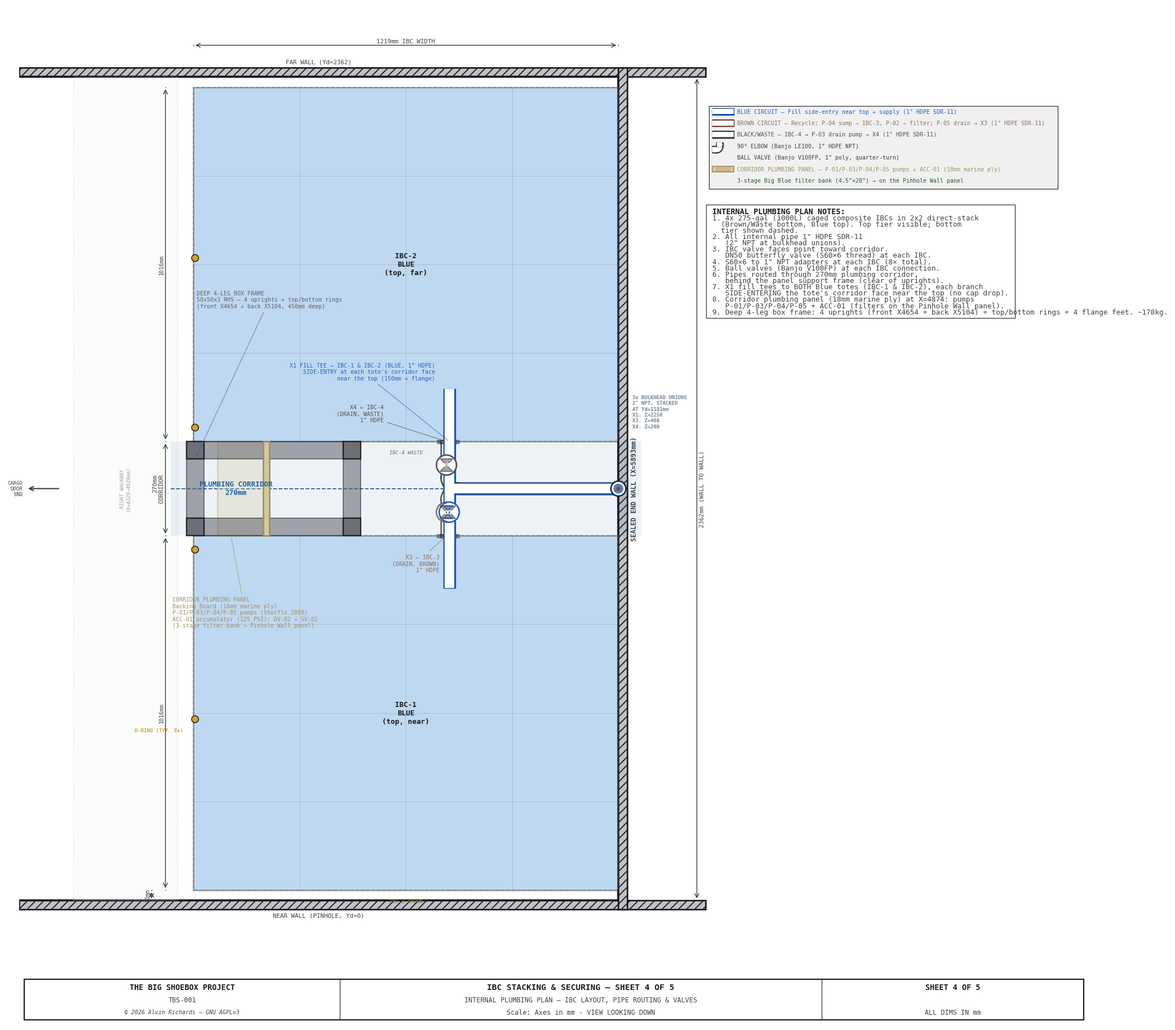
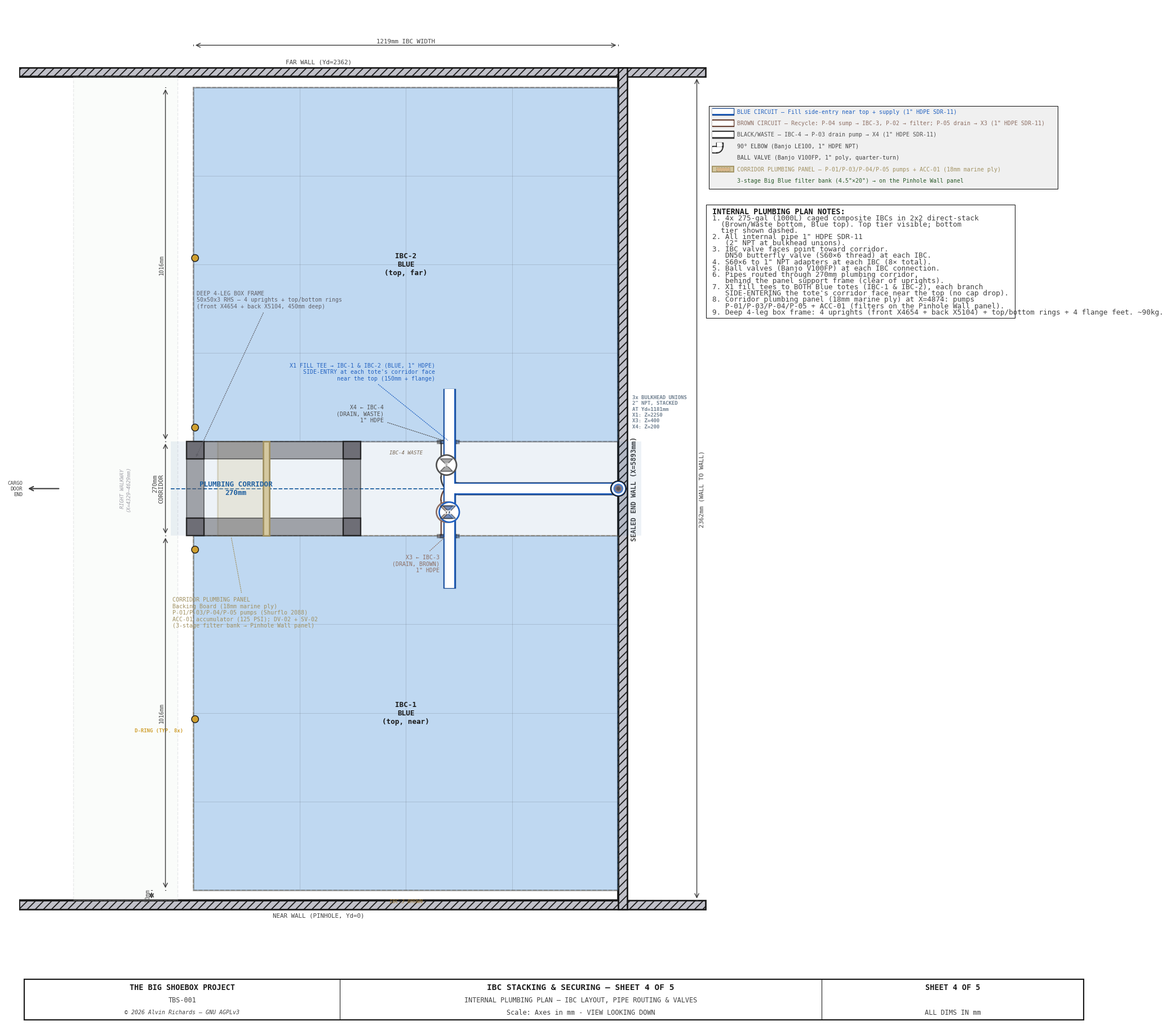
weight: recompute the IBC frame as the deep 4-leg box (~178 -> ~90 kg) + CG cascade
The weight model still described + computed the retired 8-upright load-bearing rack
(8 uprights + ties + 8 feet + a separate panel-mount frame ~178 kg). The actual frame
is cp.frame()'s deep 4-leg box: 4 uprights + 2 rings + 4 feet + front bars + hangers +
plates = ~90 kg. ibc-stacking §3.2 literally said '~178 kg (4 uprights + rings + feet)'
— member list right, number ~2x too heavy.

- _ibc_stacking_frame_weight(): rebuilt from the deep-box takeoff (rings not ties, 4 legs
  not 8, no phantom panel-mount uprights) -> 90.1 kg; docstring + calc_note rewritten.
- Component bounding box fixed: X 4674-5893 (whole footprint) -> 4654-5104, Yd -> the
  corridor box 1046-1316, so the frame CG sits at the corridor mouth, not mid-footprint.
- CG cascade (auto via weight: inject): dry 3,332->3,244, loaded 5,132->5,044, equipment
  554->466, loaded CG X 3,673->3,637 (Z 1,345). §4.4 tip table recomputed by hand
  (5,044/1,345/41.3 deg; max-fill 5,144/1,362/40.9 deg); §3.4 mass/CG citation updated.
- Frame-weight literals: weight-report row 82, ibc-stacking §3.2, equipment-layout,
  ibc-frame note 10, ibc-stacking FRAME_WEIGHT -> ~90 kg.

weight --check-blocks + lint + check_consistency all green.

diff --git a/src/generators/generate_weight_analysis.py b/src/generators/generate_weight_analysis.py
@@ -350,33 +350,39 @@ def _swing_hardware_weight():
 
 
 def _ibc_stacking_frame_weight():
-    """Steel 50×50×3mm RHS RESTRAINT-ONLY frame for the direct-stacked 2×2 IBC
-    stack (ibc-reconfig-v2).
+    """Steel RESTRAINT-ONLY frame for the direct-stacked 2×2 IBC stack
+    (ibc-reconfig-v2) — a DEEP 4-LEG BOX (matches cp.frame() + cp.tote_restraint()).
 
     The 1000L caged totes stack cage-on-cage (no room for a load-bearing deck —
-    ~52mm headroom), so the frame only RESTRAINS:
-      • full-height corridor uprights (6) + 2 front-bay uprights, ~2.30m, 50×50×3 RHS
-      • longitudinal ties (2 lines × 2 levels) along X
-      • front retaining bars (4: 2 columns × 2 heights) + short frame ties
-      • 8 floor flange feet, 150×150×12mm + ~40 M12 anchors
+    ~52mm headroom), so the frame only RESTRAINS. It is a deep 4-leg box at the
+    corridor mouth:
+      • 4 full-height uprights — a FRONT pair (X4654) + a BACK pair 450mm behind
+        (X5104), ~2.30m, 50×50×3 RHS
+      • top + bottom rings (butt-jointed Yd-rails + X-rails tying the 4 legs)
+      • 4 floor flange feet, 150×150×12mm + 16 M12 anchors (front feet under the tray)
+      • 6 rear-panel mount brackets on the back uprights
+      • front retaining bars (4: 2 columns × 2 tiers, 50×20×3 RHS) trap the totes
       • 4 Simpson-style wall joist hangers (carry the front-bar wall ends),
         through-bolted to 4 exterior backing plates (100×135×8mm) + 16 M12 bolts
-      • forward panel-mount frame (2 uprights + top rail + floor beam) — this frame
-        also carries the right walkway (replaces the old IBC-upright cantilever)
-    Total ≈ 175 kg.
+    Total ≈ 90 kg (was ~178 kg for the retired 8-upright load-bearing rack).
     """
-    rhs = 4.25                                    # 50×50×3 RHS, kg/m
-    up_h = (IBC_H_STK_1000 - 40) / 1000.0         # 2.296 m full-height upright
-    uprights_kg = 8 * up_h * rhs                  # 6 corridor + 2 front
-    ties_kg = 4 * 1.28 * rhs                      # 2 lines × 2 levels, ~1.28m
-    front_bars_kg = 4 * 1.1 * rhs + 4 * 0.4 * rhs # 4 bars + short frame ties
-    feet_kg = 8 * (0.150 * 0.150 * 0.012) * RHO_STEEL
-    hangers_kg = 4 * 1.1                          # folded 4mm-plate joist hangers
+    rhs   = 4.25                                   # 50×50×3 RHS, kg/m
+    barhs = 3.07                                   # 50×20×3 RHS front bars, kg/m
+    up_h  = (IBC_H_STK_1000 - 40) / 1000.0         # 2.296 m full-height upright
+    # cp.frame(): the deep 4-leg box
+    uprights_kg = 4 * up_h * rhs                   # front pair + back pair
+    yd_rail, x_rail = 0.170, 0.400                 # ring rails (cp.frame geometry, m)
+    rings_kg = 2 * (2 * yd_rail + 2 * x_rail) * rhs   # bottom + top rings
+    feet_kg = 4 * (0.150 * 0.150 * 0.012) * RHO_STEEL
+    brackets_kg = 6 * 0.30                         # rear-panel mount brackets
+    # cp.tote_restraint(): front bars + wall hangers + exterior plates
+    front_bars_kg = 4 * 1.096 * barhs
+    hangers_kg = 4 * 1.1                           # folded 4mm-plate joist hangers
     ext_plates_kg = 4 * (0.100 * 0.135 * 0.008) * RHO_STEEL  # exterior wall backing plates
-    anchors_kg = (40 + 16) * 0.10                 # floor anchors + 16 M12 wall through-bolts
-    panel_frame_kg = (2 * 2.30 + 0.27 + 0.27) * rhs
-    return (uprights_kg + ties_kg + front_bars_kg + feet_kg
-            + hangers_kg + ext_plates_kg + anchors_kg + panel_frame_kg)
+    anchors_kg = (16 + 16) * 0.10                  # 16 floor + 16 wall M12
+    steel = (uprights_kg + rings_kg + feet_kg + brackets_kg
+             + front_bars_kg + hangers_kg + ext_plates_kg + anchors_kg)
+    return steel * 1.08                            # +8% weld metal / gussets / primer
 
 
 # ═══════════════════════════════════════════════════════════════════════════
@@ -566,11 +572,12 @@ def build_components():
                   calc_note="1000L caged composite tare (bottom tier)"),
         Component("IBC restraint frame", "equipment",
                   _ibc_stacking_frame_weight(),
-                  IBC_COL_X, IBC_COL_X + IBC_W,
-                  BLUE_IBC_Y, IBC_FAR_Y + IBC_D,
+                  IBC_COL_X - 20, IBC_COL_X - 20 + 450,   # 4654–5104: deep-box front↔back (cp.frame)
+                  BLUE_IBC_Y + IBC_D, IBC_FAR_Y,          # 1046–1316: the plumbing-corridor box
                   0, IBC_H_STK_1000 - 40, color=C_STEEL,
-                  calc_note="50×50×3mm RHS restraint frame: uprights + ties + "
-                            "feet + front bars + wall hangers + panel frame"),
+                  calc_note="50×50×3mm RHS restraint deep 4-leg box: 4 uprights "
+                            "(front + back pair) + top/bottom rings + 4 feet + front "
+                            "bars + wall hangers + exterior backing plates"),
 
         # ── Liquids — Camera Ready state (water in top-tier Blue IBCs) ───
         # Blue holds 1800L TOTAL across the two top totes (~900L each). Water

diff --git a/src/generators/generate_ibc_frame_drawing.py b/src/generators/generate_ibc_frame_drawing.py
@@ -570,7 +570,7 @@ def sheet1():
         f"   v2 layout: Brown/Waste bottom, Blue on top.",
         f"8. Cage top rail ({IBC_CAGE_TUBE_D}mm Ø tube) is the highest point; lashing straps bear on it.",
         f"9. IBC valve face (DN50, S60×6) points toward the corridor. Valve CL at Z={IBC_VALVE_Z}mm above each tote base.",
-        f"10. Total frame weight: ~178 kg (incl. feet + front bars + hangers + exterior wall plates + panel-mount).",
+        f"10. Total frame weight: ~90 kg (incl. 4 feet + rings + front bars + hangers + exterior wall plates + rear-panel brackets).",
     ]
     draw_notes(ax, notes, (2500), (TOP_Z + 600), spacing=(23),
                fs=7, font=FONT, width=(1800))

diff --git a/src/generators/generate_ibc_stacking_diagram.py b/src/generators/generate_ibc_stacking_diagram.py
@@ -79,7 +79,7 @@ FRAME_PLATFORM_H  = 1060  # platform height (1010 + 50mm clearance plate)
 FRAME_PLATFORM_T  = FRAME_RHS  # platform beam depth = RHS size
 FRAME_LIP_H    = 40     # anti-rotation lip height above platform
 FRAME_LIP_T    = 5      # lip thickness (steel plate)
-FRAME_WEIGHT   = 178    # kg (restraint deep 4-leg box: uprights + rings + feet + front bars + hangers + exterior wall plates)
+FRAME_WEIGHT   = 90     # kg (restraint deep 4-leg box: 4 uprights + rings + 4 feet + front bars + hangers + exterior wall plates); see weight-distribution-report §3.3
 
 # D-ring lashing
 DRING_SIZE     = 25     # D-ring strap width (mm)

diff --git a/weight-distribution-report.md b/weight-distribution-report.md
@@ -79,17 +79,17 @@ UV-HDPE 950 kg/m³, water 1,000 kg/m³.
 | Blue IBC-2 (tote) | 65 | 4,674–5,893 | 1,316–2,332 | 1,000L caged composite tare (top tier, far) |
 | Brown IBC-3 (tote) | 65 | 4,674–5,893 | 30–1,046 | 1,000L caged composite tare (bottom tier, near) |
 | Waste IBC-4 (tote) | 65 | 4,674–5,893 | 1,316–2,332 | 1,000L caged composite tare (bottom tier, far) |
-| IBC restraint frame | 178 | 4,674–5,893 | 0–2,362 | 50×50×3mm RHS restraint-only frame (totes direct-stack cage-on-cage): full-height corridor + front-bay uprights + longitudinal ties + front retaining bars + 8 floor flange feet + 4 wall joist hangers (through-bolted to 4 exterior backing plates) + forward panel-mount frame ([Equipment Layout](equipment-layout-report.md) §5) |
-| **Equipment subtotal** | **<!-- BEGIN weight:wt-cat-equipment -->554<!-- END weight:wt-cat-equipment -->** | | | |
+| IBC restraint frame | 90 | 4,654–5,104 | 1,046–1,316 | 50×50×3mm RHS restraint-only deep 4-leg box (totes direct-stack cage-on-cage): 4 full-height uprights (front pair X4654 + back pair X5104) + top/bottom rings + 4 floor flange feet + front retaining bars + 4 wall joist hangers (through-bolted to 4 exterior backing plates) + rear-panel brackets ([Equipment Layout](equipment-layout-report.md) §5) |
+| **Equipment subtotal** | **<!-- BEGIN weight:wt-cat-equipment -->466<!-- END weight:wt-cat-equipment -->** | | | |
 
 ### 3.4 Dry Weight Summary
 
 | Category | Weight (kg) | % of Dry Total |
 |----------|------------|---------------|
-| Container (shell + doors) | <!-- BEGIN weight:wt-cat-container -->2,200<!-- END weight:wt-cat-container --> | <!-- BEGIN weight:wt-pct-container -->66.0<!-- END weight:wt-pct-container -->% |
-| Structure | <!-- BEGIN weight:wt-cat-structure -->578<!-- END weight:wt-cat-structure --> | <!-- BEGIN weight:wt-pct-structure -->17.3<!-- END weight:wt-pct-structure -->% |
-| Equipment | <!-- BEGIN weight:wt-cat-equipment -->554<!-- END weight:wt-cat-equipment --> | <!-- BEGIN weight:wt-pct-equipment -->16.6<!-- END weight:wt-pct-equipment -->% |
-| **Total dry** | **<!-- BEGIN weight:wt-total-dry -->3,332<!-- END weight:wt-total-dry -->** | **100%** |
+| Container (shell + doors) | <!-- BEGIN weight:wt-cat-container -->2,200<!-- END weight:wt-cat-container --> | <!-- BEGIN weight:wt-pct-container -->67.8<!-- END weight:wt-pct-container -->% |
+| Structure | <!-- BEGIN weight:wt-cat-structure -->578<!-- END weight:wt-cat-structure --> | <!-- BEGIN weight:wt-pct-structure -->17.8<!-- END weight:wt-pct-structure -->% |
+| Equipment | <!-- BEGIN weight:wt-cat-equipment -->466<!-- END weight:wt-cat-equipment --> | <!-- BEGIN weight:wt-pct-equipment -->14.4<!-- END weight:wt-pct-equipment -->% |
+| **Total dry** | **<!-- BEGIN weight:wt-total-dry -->3,244<!-- END weight:wt-total-dry -->** | **100%** |
 
 **Grating weight assumption:** 5/8" (15mm) molded GRP (fiberglass) grating,
 vinyl-ester resin with grit top, weighs approximately 11 kg/m² over the 4.14 m²
@@ -115,7 +115,7 @@ during processing, not pre-loaded).
 | Blue IBC-2 water | 900 | 900 | X=4,674–5,893, Yd=1,316–2,332 | Top (Z=1,336–2,236) |
 | **Total liquid** | **1,800** | **1,800** | | |
 
-**Total loaded weight: <!-- BEGIN weight:wt-total-loaded -->5,132<!-- END weight:wt-total-loaded --> kg** (<!-- BEGIN weight:wt-total-dry -->3,332<!-- END weight:wt-total-dry --> dry + 1,800 liquid)
+**Total loaded weight: <!-- BEGIN weight:wt-total-loaded -->5,044<!-- END weight:wt-total-loaded --> kg** (<!-- BEGIN weight:wt-total-dry -->3,244<!-- END weight:wt-total-dry --> dry + 1,800 liquid)
 
 ### 4.2 Materials Exhausted (Ready for Resupply)
 
@@ -132,26 +132,26 @@ unrecovered residual — see [water-system report §4](water-system-report.md)).
 | Processing tray | — | 0 | Drained | — |
 | **Total liquid** | **1,260** | **1,260** | | |
 
-**Total exhausted weight: <!-- BEGIN weight:wt-total-exhausted -->4,592<!-- END weight:wt-total-exhausted --> kg** (<!-- BEGIN weight:wt-total-dry -->3,332<!-- END weight:wt-total-dry --> dry + 1,260 liquid)
+**Total exhausted weight: <!-- BEGIN weight:wt-total-exhausted -->4,504<!-- END weight:wt-total-exhausted --> kg** (<!-- BEGIN weight:wt-total-dry -->3,244<!-- END weight:wt-total-dry --> dry + 1,260 liquid)
 
 ### 4.3 State Comparison
 
 | State | Total (kg) | X_cg (mm) | Yd_cg (mm) | Z_cg (mm) | Front/Rear | Near/Far |
 |-------|-----------|-----------|------------|-----------|------------|----------|
-| Dry (Transport) | <!-- BEGIN weight:wt-dry-total -->3,332<!-- END weight:wt-dry-total --> | <!-- BEGIN weight:wt-dry-x -->2,802<!-- END weight:wt-dry-x --> | <!-- BEGIN weight:wt-dry-yd -->1,193<!-- END weight:wt-dry-yd --> | <!-- BEGIN weight:wt-dry-z -->1,102<!-- END weight:wt-dry-z --> | <!-- BEGIN weight:wt-dry-fr -->52.6<!-- END weight:wt-dry-fr -->/<!-- BEGIN weight:wt-dry-rr -->47.4<!-- END weight:wt-dry-rr -->% | <!-- BEGIN weight:wt-dry-nr -->48.5<!-- END weight:wt-dry-nr -->/<!-- BEGIN weight:wt-dry-fa -->51.5<!-- END weight:wt-dry-fa -->% |
-| Loaded Transport (Blue full) | <!-- BEGIN weight:wt-loadedtx-total -->5,132<!-- END weight:wt-loadedtx-total --> | <!-- BEGIN weight:wt-loadedtx-x -->3,673<!-- END weight:wt-loadedtx-x --> | <!-- BEGIN weight:wt-loadedtx-yd -->1,189<!-- END weight:wt-loadedtx-yd --> | <!-- BEGIN weight:wt-loadedtx-z -->1,342<!-- END weight:wt-loadedtx-z --> | <!-- BEGIN weight:wt-loadedtx-fr -->34.2<!-- END weight:wt-loadedtx-fr -->/<!-- BEGIN weight:wt-loadedtx-rr -->65.8<!-- END weight:wt-loadedtx-rr -->% | <!-- BEGIN weight:wt-loadedtx-nr -->49.1<!-- END weight:wt-loadedtx-nr -->/<!-- BEGIN weight:wt-loadedtx-fa -->50.9<!-- END weight:wt-loadedtx-fa -->% |
-| Camera Ready (Deployed) | <!-- BEGIN weight:wt-ready-total -->5,132<!-- END weight:wt-ready-total --> | <!-- BEGIN weight:wt-ready-x -->3,670<!-- END weight:wt-ready-x --> | <!-- BEGIN weight:wt-ready-yd -->1,174<!-- END weight:wt-ready-yd --> | <!-- BEGIN weight:wt-ready-z -->1,341<!-- END weight:wt-ready-z --> | <!-- BEGIN weight:wt-ready-fr -->34.2<!-- END weight:wt-ready-fr -->/<!-- BEGIN weight:wt-ready-rr -->65.8<!-- END weight:wt-ready-rr -->% | <!-- BEGIN weight:wt-ready-nr -->50.3<!-- END weight:wt-ready-nr -->/<!-- BEGIN weight:wt-ready-fa -->49.7<!-- END weight:wt-ready-fa -->% |
-| Materials Exhausted (Transport) | <!-- BEGIN weight:wt-exhausted-total -->4,592<!-- END weight:wt-exhausted-total --> | <!-- BEGIN weight:wt-exhausted-x -->3,483<!-- END weight:wt-exhausted-x --> | <!-- BEGIN weight:wt-exhausted-yd -->1,190<!-- END weight:wt-exhausted-yd --> | <!-- BEGIN weight:wt-exhausted-z -->932<!-- END weight:wt-exhausted-z --> | <!-- BEGIN weight:wt-exhausted-fr -->38.2<!-- END weight:wt-exhausted-fr -->/<!-- BEGIN weight:wt-exhausted-rr -->61.8<!-- END weight:wt-exhausted-rr -->% | <!-- BEGIN weight:wt-exhausted-nr -->48.9<!-- END weight:wt-exhausted-nr -->/<!-- BEGIN weight:wt-exhausted-fa -->51.1<!-- END weight:wt-exhausted-fa -->% |
+| Dry (Transport) | <!-- BEGIN weight:wt-dry-total -->3,244<!-- END weight:wt-dry-total --> | <!-- BEGIN weight:wt-dry-x -->2,724<!-- END weight:wt-dry-x --> | <!-- BEGIN weight:wt-dry-yd -->1,193<!-- END weight:wt-dry-yd --> | <!-- BEGIN weight:wt-dry-z -->1,100<!-- END weight:wt-dry-z --> | <!-- BEGIN weight:wt-dry-fr -->54.0<!-- END weight:wt-dry-fr -->/<!-- BEGIN weight:wt-dry-rr -->46.0<!-- END weight:wt-dry-rr -->% | <!-- BEGIN weight:wt-dry-nr -->48.5<!-- END weight:wt-dry-nr -->/<!-- BEGIN weight:wt-dry-fa -->51.5<!-- END weight:wt-dry-fa -->% |
+| Loaded Transport (Blue full) | <!-- BEGIN weight:wt-loadedtx-total -->5,044<!-- END weight:wt-loadedtx-total --> | <!-- BEGIN weight:wt-loadedtx-x -->3,637<!-- END weight:wt-loadedtx-x --> | <!-- BEGIN weight:wt-loadedtx-yd -->1,189<!-- END weight:wt-loadedtx-yd --> | <!-- BEGIN weight:wt-loadedtx-z -->1,345<!-- END weight:wt-loadedtx-z --> | <!-- BEGIN weight:wt-loadedtx-fr -->34.8<!-- END weight:wt-loadedtx-fr -->/<!-- BEGIN weight:wt-loadedtx-rr -->65.2<!-- END weight:wt-loadedtx-rr -->% | <!-- BEGIN weight:wt-loadedtx-nr -->49.0<!-- END weight:wt-loadedtx-nr -->/<!-- BEGIN weight:wt-loadedtx-fa -->51.0<!-- END weight:wt-loadedtx-fa -->% |
+| Camera Ready (Deployed) | <!-- BEGIN weight:wt-ready-total -->5,044<!-- END weight:wt-ready-total --> | <!-- BEGIN weight:wt-ready-x -->3,635<!-- END weight:wt-ready-x --> | <!-- BEGIN weight:wt-ready-yd -->1,173<!-- END weight:wt-ready-yd --> | <!-- BEGIN weight:wt-ready-z -->1,345<!-- END weight:wt-ready-z --> | <!-- BEGIN weight:wt-ready-fr -->34.8<!-- END weight:wt-ready-fr -->/<!-- BEGIN weight:wt-ready-rr -->65.2<!-- END weight:wt-ready-rr -->% | <!-- BEGIN weight:wt-ready-nr -->50.3<!-- END weight:wt-ready-nr -->/<!-- BEGIN weight:wt-ready-fa -->49.7<!-- END weight:wt-ready-fa -->% |
+| Materials Exhausted (Transport) | <!-- BEGIN weight:wt-exhausted-total -->4,504<!-- END weight:wt-exhausted-total --> | <!-- BEGIN weight:wt-exhausted-x -->3,440<!-- END weight:wt-exhausted-x --> | <!-- BEGIN weight:wt-exhausted-yd -->1,190<!-- END weight:wt-exhausted-yd --> | <!-- BEGIN weight:wt-exhausted-z -->928<!-- END weight:wt-exhausted-z --> | <!-- BEGIN weight:wt-exhausted-fr -->38.9<!-- END weight:wt-exhausted-fr -->/<!-- BEGIN weight:wt-exhausted-rr -->61.1<!-- END weight:wt-exhausted-rr -->% | <!-- BEGIN weight:wt-exhausted-nr -->48.9<!-- END weight:wt-exhausted-nr -->/<!-- BEGIN weight:wt-exhausted-fa -->51.1<!-- END weight:wt-exhausted-fa -->% |
 
 **Loaded Transport** is the camera-ready water load (full top-tier Blue IBCs,
 1,800 kg) carried in the *transport* configuration — panel swung in, cargo doors
-closed. The water sits in the **top** tier, so its vertical CG is **Z=<!-- BEGIN weight:wt-loadedtx-z -->1,342<!-- END weight:wt-loadedtx-z -->mm —
-<!-- BEGIN weight:wt-mig-dz -->410<!-- END weight:wt-mig-dz -->mm higher** than the exhausted state (<!-- BEGIN weight:wt-exhausted-z -->932<!-- END weight:wt-exhausted-z -->mm), making it the **highest-CG
+closed. The water sits in the **top** tier, so its vertical CG is **Z=<!-- BEGIN weight:wt-loadedtx-z -->1,345<!-- END weight:wt-loadedtx-z -->mm —
+<!-- BEGIN weight:wt-mig-dz -->417<!-- END weight:wt-mig-dz -->mm higher** than the exhausted state (<!-- BEGIN weight:wt-exhausted-z -->928<!-- END weight:wt-exhausted-z -->mm), making it the **highest-CG
 transport case** that governs road-transport stability (tie-down and cornering).
-The exhausted (return) state is both lighter — **<!-- BEGIN weight:wt-total-exhausted -->4,592<!-- END weight:wt-total-exhausted --> kg**, since ~<!-- BEGIN fact:lost_l -->434<!-- END fact:lost_l --> kg of the
+The exhausted (return) state is both lighter — **<!-- BEGIN weight:wt-total-exhausted -->4,504<!-- END weight:wt-total-exhausted --> kg**, since ~<!-- BEGIN fact:lost_l -->434<!-- END fact:lost_l --> kg of the
 processed water is lost to the open process rather than recovered — and lower-CG,
 so it is never the governing case. Even at the loaded worst case the static sideways
-tip threshold is **~41°** (½-width 1,181mm ÷ Z_cg <!-- BEGIN weight:wt-loadedtx-z -->1,342<!-- END weight:wt-loadedtx-z -->mm), so the deliberate
+tip threshold is **~41°** (½-width 1,181mm ÷ Z_cg <!-- BEGIN weight:wt-loadedtx-z -->1,345<!-- END weight:wt-loadedtx-z -->mm), so the deliberate
 Blue-on-top layout stays comfortably stable.
 
 ### 4.4 Optional Max-Blue-Fill Transport Case
@@ -163,11 +163,11 @@ that heavier load stays well within transport limits:
 
 | Loaded Transport | Gross mass | Z_cg | Static tip threshold |
 |------------------|-----------:|-----:|---------------------:|
-| Standard Blue fill (1,800L) | 5,130 kg | 1,340mm | 41.4° |
-| **Max Blue fill (1,900L)** | **5,224 kg** | **1,357mm** | **41.0°** |
+| Standard Blue fill (1,800L) | 5,044 kg | 1,345mm | 41.3° |
+| **Max Blue fill (1,900L)** | **5,144 kg** | **1,362mm** | **40.9°** |
 
 The extra ~100 kg sits in the top tier, raising the worst-case vertical CG only 17mm and lowering
-the static sideways tip threshold ~0.4° (to 41.0° — still far above any rollover concern). Gross
+the static sideways tip threshold ~0.4° (to 40.9° — still far above any rollover concern). Gross
 weight stays at ~22% of the [ISO 668](https://www.iso.org/standard/76912.html) 24,000 kg limit. The
 optional max-Blue-fill top-up is therefore transport-validated.
 
@@ -178,7 +178,7 @@ optional max-Blue-fill top-up is therefore transport-validated.
 ### 1 — Summary Comparison
 
 Three-state side-by-side comparison with CG positions and summary table.
-The dry state is nearly balanced; the camera-ready/loaded states shift the CG rearward by ~<!-- BEGIN weight:wt-cg-shift -->870<!-- END weight:wt-cg-shift -->mm (the lighter exhausted return state by ~<!-- BEGIN weight:wt-cg-shift-ex -->680<!-- END weight:wt-cg-shift-ex -->mm).
+The dry state is nearly balanced; the camera-ready/loaded states shift the CG rearward by ~<!-- BEGIN weight:wt-cg-shift -->910<!-- END weight:wt-cg-shift -->mm (the lighter exhausted return state by ~<!-- BEGIN weight:wt-cg-shift-ex -->715<!-- END weight:wt-cg-shift-ex -->mm).
 
 ![TBS-001 — Weight Analysis: Summary Comparison](assets/weight-analysis-sheet1.png)
 
@@ -195,7 +195,7 @@ is the densest zone.
 
 Weight distribution with full Blue IBCs (top tier) and hinged panel
 deployed to its operational position at the cargo door end (X=0–80).
-CG marker shows the loaded center of gravity at X=<!-- BEGIN weight:wt-ready-x -->3,670<!-- END weight:wt-ready-x -->, Yd=<!-- BEGIN weight:wt-ready-yd -->1,174<!-- END weight:wt-ready-yd -->.
+CG marker shows the loaded center of gravity at X=<!-- BEGIN weight:wt-ready-x -->3,635<!-- END weight:wt-ready-x -->, Yd=<!-- BEGIN weight:wt-ready-yd -->1,173<!-- END weight:wt-ready-yd -->.
 Quadrant weights show the rear-heavy bias from the IBC stack.
 
 ![TBS-001 — Weight Analysis: Camera Ready](assets/weight-analysis-sheet3.png)
@@ -205,8 +205,8 @@ Quadrant weights show the rear-heavy bias from the IBC stack.
 Water has migrated from top-tier Blue IBCs to bottom-tier Brown/Waste IBCs, and ~<!-- BEGIN fact:lost_l -->434<!-- END fact:lost_l --> kg of it has
 been lost to the open process (evaporation, wet-print carryout, unrecovered residual — see
 [water-system report §4](water-system-report.md)), so only ~<!-- BEGIN fact:recovered_l -->1,260<!-- END fact:recovered_l --> kg is recovered. The hinged panel
-is swung ~56° about the pivot to its transport position. Total mass therefore drops to **<!-- BEGIN weight:wt-total-exhausted -->4,592<!-- END weight:wt-total-exhausted --> kg**
-(~<!-- BEGIN weight:wt-mass-drop -->540<!-- END weight:wt-mass-drop --> kg below the loaded state), and the vertical CG drops by <!-- BEGIN weight:wt-mig-dz -->410<!-- END weight:wt-mig-dz -->mm (Z: <!-- BEGIN weight:wt-loadedtx-z -->1,342<!-- END weight:wt-loadedtx-z --> → <!-- BEGIN weight:wt-exhausted-z -->932<!-- END weight:wt-exhausted-z -->mm) as the
+is swung ~56° about the pivot to its transport position. Total mass therefore drops to **<!-- BEGIN weight:wt-total-exhausted -->4,504<!-- END weight:wt-total-exhausted --> kg**
+(~<!-- BEGIN weight:wt-mass-drop -->540<!-- END weight:wt-mass-drop --> kg below the loaded state), and the vertical CG drops by <!-- BEGIN weight:wt-mig-dz -->417<!-- END weight:wt-mig-dz -->mm (Z: <!-- BEGIN weight:wt-loadedtx-z -->1,345<!-- END weight:wt-loadedtx-z --> → <!-- BEGIN weight:wt-exhausted-z -->928<!-- END weight:wt-exhausted-z -->mm) as the
 remaining water settles in the bottom tier. This is the lightest, lowest-CG transport state — never
 the governing case.
 
@@ -216,8 +216,8 @@ the governing case.
 
 The camera-ready water load (1,800 kg in the top-tier Blue IBCs) carried in
 transport configuration — panel swung in, cargo doors closed. The water is in
-the **top** tier, raising the vertical CG to **Z=<!-- BEGIN weight:wt-loadedtx-z -->1,342<!-- END weight:wt-loadedtx-z -->mm** (+<!-- BEGIN weight:wt-mig-dz -->410<!-- END weight:wt-mig-dz -->mm vs the lighter
-exhausted state at <!-- BEGIN weight:wt-exhausted-z -->932<!-- END weight:wt-exhausted-z -->mm). This is the worst-case transport vertical CG.
+the **top** tier, raising the vertical CG to **Z=<!-- BEGIN weight:wt-loadedtx-z -->1,345<!-- END weight:wt-loadedtx-z -->mm** (+<!-- BEGIN weight:wt-mig-dz -->417<!-- END weight:wt-mig-dz -->mm vs the lighter
+exhausted state at <!-- BEGIN weight:wt-exhausted-z -->928<!-- END weight:wt-exhausted-z -->mm). This is the worst-case transport vertical CG.
 
 ![TBS-001 — Weight Analysis: Loaded Transport](assets/weight-analysis-sheet5.png)
 
@@ -231,10 +231,10 @@ All four states are well within the ISO 24,000 kg maximum gross weight:
 
 | State | Total (kg) | Margin (kg) | Utilization |
 |-------|-----------|------------|-------------|
-| Dry | <!-- BEGIN weight:wt-dry-total -->3,332<!-- END weight:wt-dry-total --> | <!-- BEGIN weight:wt-iso-dry-margin -->20,668<!-- END weight:wt-iso-dry-margin --> | <!-- BEGIN weight:wt-iso-dry-util -->13.9<!-- END weight:wt-iso-dry-util -->% |
-| Camera Ready | <!-- BEGIN weight:wt-ready-total -->5,132<!-- END weight:wt-ready-total --> | <!-- BEGIN weight:wt-iso-ready-margin -->18,868<!-- END weight:wt-iso-ready-margin --> | <!-- BEGIN weight:wt-iso-ready-util -->21.4<!-- END weight:wt-iso-ready-util -->% |
-| Materials Exhausted | <!-- BEGIN weight:wt-exhausted-total -->4,592<!-- END weight:wt-exhausted-total --> | <!-- BEGIN weight:wt-iso-exhausted-margin -->19,408<!-- END weight:wt-iso-exhausted-margin --> | <!-- BEGIN weight:wt-iso-exhausted-util -->19.1<!-- END weight:wt-iso-exhausted-util -->% |
-| Loaded Transport | <!-- BEGIN weight:wt-loadedtx-total -->5,132<!-- END weight:wt-loadedtx-total --> | <!-- BEGIN weight:wt-iso-loadedtx-margin -->18,868<!-- END weight:wt-iso-loadedtx-margin --> | <!-- BEGIN weight:wt-iso-loadedtx-util -->21.4<!-- END weight:wt-iso-loadedtx-util -->% |
+| Dry | <!-- BEGIN weight:wt-dry-total -->3,244<!-- END weight:wt-dry-total --> | <!-- BEGIN weight:wt-iso-dry-margin -->20,756<!-- END weight:wt-iso-dry-margin --> | <!-- BEGIN weight:wt-iso-dry-util -->13.5<!-- END weight:wt-iso-dry-util -->% |
+| Camera Ready | <!-- BEGIN weight:wt-ready-total -->5,044<!-- END weight:wt-ready-total --> | <!-- BEGIN weight:wt-iso-ready-margin -->18,956<!-- END weight:wt-iso-ready-margin --> | <!-- BEGIN weight:wt-iso-ready-util -->21.0<!-- END weight:wt-iso-ready-util -->% |
+| Materials Exhausted | <!-- BEGIN weight:wt-exhausted-total -->4,504<!-- END weight:wt-exhausted-total --> | <!-- BEGIN weight:wt-iso-exhausted-margin -->19,496<!-- END weight:wt-iso-exhausted-margin --> | <!-- BEGIN weight:wt-iso-exhausted-util -->18.8<!-- END weight:wt-iso-exhausted-util -->% |
+| Loaded Transport | <!-- BEGIN weight:wt-loadedtx-total -->5,044<!-- END weight:wt-loadedtx-total --> | <!-- BEGIN weight:wt-iso-loadedtx-margin -->18,956<!-- END weight:wt-iso-loadedtx-margin --> | <!-- BEGIN weight:wt-iso-loadedtx-util -->21.0<!-- END weight:wt-iso-loadedtx-util -->% |
 
 The container operates at about 19–21% of its rated capacity in all states.
 There is no structural concern from a gross weight perspective.
@@ -252,21 +252,21 @@ the far side but is offset by the tilt-swing board on the near side.
 
 ### 6.3 Front-Rear Balance
 
-The dry/transport state has a front-biased split (<!-- BEGIN weight:wt-dry-fr -->52.6<!-- END weight:wt-dry-fr -->/<!-- BEGIN weight:wt-dry-rr -->47.4<!-- END weight:wt-dry-rr -->%), with CG at
-X=<!-- BEGIN weight:wt-dry-x -->2,802<!-- END weight:wt-dry-x -->mm. This front bias comes from the cargo doors (<!-- BEGIN weight:wt-doors-total -->280<!-- END weight:wt-doors-total --> kg total) being
+The dry/transport state has a front-biased split (<!-- BEGIN weight:wt-dry-fr -->54.0<!-- END weight:wt-dry-fr -->/<!-- BEGIN weight:wt-dry-rr -->46.0<!-- END weight:wt-dry-rr -->%), with CG at
+X=<!-- BEGIN weight:wt-dry-x -->2,724<!-- END weight:wt-dry-x -->mm. This front bias comes from the cargo doors (<!-- BEGIN weight:wt-doors-total -->280<!-- END weight:wt-doors-total --> kg total) being
 in their closed position at X≈−70mm, pulling the CG toward the cargo door
 end. The hinged panel is also swung ~56° about the pivot, keeping its mass
 in the front (door-end) half.
 
 When liquids are added and the panel and doors are deployed (camera ready),
-the CG shifts rearward to X=<!-- BEGIN weight:wt-ready-x -->3,670<!-- END weight:wt-ready-x -->mm (~<!-- BEGIN weight:wt-cg-shift -->870<!-- END weight:wt-cg-shift -->mm past the dry CG). The doors
+the CG shifts rearward to X=<!-- BEGIN weight:wt-ready-x -->3,635<!-- END weight:wt-ready-x -->mm (~<!-- BEGIN weight:wt-cg-shift -->910<!-- END weight:wt-cg-shift -->mm past the dry CG). The doors
 swing open flat against the side walls (X=0–1,221mm), redistributing
 <!-- BEGIN weight:wt-doors-total -->280<!-- END weight:wt-doors-total --> kg from X≈−70 to X≈610, while 1,800 kg of water loads in the IBC stack
-zone (X=4,674–5,893mm). This creates a <!-- BEGIN weight:wt-ready-fr -->34.2<!-- END weight:wt-ready-fr -->/<!-- BEGIN weight:wt-ready-rr -->65.8<!-- END weight:wt-ready-rr -->% front/rear split — the heavy
+zone (X=4,674–5,893mm). This creates a <!-- BEGIN weight:wt-ready-fr -->34.8<!-- END weight:wt-ready-fr -->/<!-- BEGIN weight:wt-ready-rr -->65.2<!-- END weight:wt-ready-rr -->% front/rear split — the heavy
 1,000L totes sit at the sealed end.
 
 **Transport implication:** When loaded for transport (materials exhausted,
-doors closed), the container's CG is at <!-- BEGIN weight:wt-cg-lengthpct -->59.1<!-- END weight:wt-cg-lengthpct -->% of the length from the cargo
+doors closed), the container's CG is at <!-- BEGIN weight:wt-cg-lengthpct -->58.4<!-- END weight:wt-cg-lengthpct -->% of the length from the cargo
 door end. For trailer placement, the container
 should be positioned so the rear (sealed) end sits over or near the trailer
 axle(s) to balance the load.
@@ -275,20 +275,20 @@ axle(s) to balance the load.
 
 The most significant finding is the **vertical CG migration** between states:
 
-- **Loaded (top-tier water):** Z_cg = <!-- BEGIN weight:wt-loadedtx-z -->1,342<!-- END weight:wt-loadedtx-z -->mm (1,800 kg of water in top-tier IBCs)
-- **Materials Exhausted:** Z_cg = <!-- BEGIN weight:wt-exhausted-z -->932<!-- END weight:wt-exhausted-z -->mm (<!-- BEGIN fact:recovered_l -->1,260<!-- END fact:recovered_l --> kg of recovered water in bottom-tier IBCs)
-- **ΔZ = −<!-- BEGIN weight:wt-mig-dz -->410<!-- END weight:wt-mig-dz -->mm** (CG drops ~<!-- BEGIN weight:wt-mig-dz -->410<!-- END weight:wt-mig-dz -->mm during a session)
+- **Loaded (top-tier water):** Z_cg = <!-- BEGIN weight:wt-loadedtx-z -->1,345<!-- END weight:wt-loadedtx-z -->mm (1,800 kg of water in top-tier IBCs)
+- **Materials Exhausted:** Z_cg = <!-- BEGIN weight:wt-exhausted-z -->928<!-- END weight:wt-exhausted-z -->mm (<!-- BEGIN fact:recovered_l -->1,260<!-- END fact:recovered_l --> kg of recovered water in bottom-tier IBCs)
+- **ΔZ = −<!-- BEGIN weight:wt-mig-dz -->417<!-- END weight:wt-mig-dz -->mm** (CG drops ~<!-- BEGIN weight:wt-mig-dz -->417<!-- END weight:wt-mig-dz -->mm during a session)
 
 This is an inherent self-stabilizing feature of the 2×2 IBC stack design.
 1,800 kg of clean water is loaded into the top-tier Blue IBCs and processed during a
 session; ~<!-- BEGIN fact:recovered_l -->1,260<!-- END fact:recovered_l --> kg is recovered into the bottom-tier Brown/Waste IBCs and ~<!-- BEGIN fact:lost_l -->434<!-- END fact:lost_l --> kg is
-lost to the open process, so total mass drops from <!-- BEGIN weight:wt-total-loaded -->5,132<!-- END weight:wt-total-loaded --> to **<!-- BEGIN weight:wt-total-exhausted -->4,592<!-- END weight:wt-total-exhausted --> kg**. The water that
+lost to the open process, so total mass drops from <!-- BEGIN weight:wt-total-loaded -->5,044<!-- END weight:wt-total-loaded --> to **<!-- BEGIN weight:wt-total-exhausted -->4,504<!-- END weight:wt-total-exhausted --> kg**. The water that
 remains migrates from the top tier to the bottom tier, dropping the center of gravity by
-<!-- BEGIN weight:wt-mig-dz -->410<!-- END weight:wt-mig-dz -->mm and improving stability through the session.
+<!-- BEGIN weight:wt-mig-dz -->417<!-- END weight:wt-mig-dz -->mm and improving stability through the session.
 
 ### 6.5 Walkway Weight Sensitivity
 
-The walkway system contributes <!-- BEGIN weight:wt-walkway-total -->143<!-- END weight:wt-walkway-total --> kg (<!-- BEGIN weight:wt-walkway-pct -->4.3<!-- END weight:wt-walkway-pct -->% of dry weight), making it the
+The walkway system contributes <!-- BEGIN weight:wt-walkway-total -->143<!-- END weight:wt-walkway-total --> kg (<!-- BEGIN weight:wt-walkway-pct -->4.4<!-- END weight:wt-walkway-pct -->% of dry weight), making it the
 second-largest structural subsystem after the hinged panel. The deck grating —
 15mm molded GRP (fiberglass) at ≈11 kg/m² — is the largest single line in the
 walkway; GRP is specified for corrosion immunity in the wet photo-chemistry

diff --git a/ibc-stacking-report.md b/ibc-stacking-report.md
@@ -109,7 +109,7 @@ front uprights.
 | Exterior backing plates | 4 × 100 × 135 × 8mm steel, on the **outside** of the container side walls (hex heads outside) — spread the totes' transport thrust into the thin corrugated wall so the bolts can't pull through |
 | D-ring lashing | holders on the front bars, 1,100 kg WLL |
 | Panel mount | the box carries the Corridor (pump) Plumbing Panel + drain-riser spine on the back uprights, and the right-walkway cantilever arms on the front uprights |
-| Frame weight | ~178 kg (4 uprights + rings + feet + front bars + hangers + exterior plates + panel/spine mount — see [weight report](weight-distribution-report.md)) |
+| Frame weight | ~90 kg (4 uprights + rings + 4 feet + front bars + hangers + exterior plates + rear-panel brackets — see [weight report](weight-distribution-report.md)) |
 | Joints | Welded (fillet weld throughout) |
 
 ### 3.3 Direct-Stack Junction
@@ -123,7 +123,7 @@ rated for a full upper tote.
 The frame carries **no vertical service load** (the totes stack on themselves), so there
 is no platform-beam bending case. The governing check is **transport restraint**: the
 front retaining bars + D-ring lashing must resist the totes' inertia under
-braking/cornering (loaded mass 5,130 kg, worst-case CG at Z=1,340mm — see the
+braking/cornering (loaded mass 5,044 kg, worst-case CG at Z=1,345mm — see the
 [weight-distribution report](weight-distribution-report.md)).
 
 - **Front retaining bars** (50×20×3 RHS) span wall→upright (~1,046mm) and take each tote's

diff --git a/equipment-layout-report.md b/equipment-layout-report.md
@@ -126,7 +126,7 @@ only restrains them for transport (front retaining bars + D-ring lashing).
 | Total stacked height | 2,336mm (2× 1,168mm direct-stack) — <!-- BEGIN fact:ibc_ceiling_clearance_mm -->52<!-- END fact:ibc_ceiling_clearance_mm -->mm ceiling clearance |
 | Panel mount | the deep box carries the (forward) Corridor Plumbing Panel + drain-riser spine on its back uprights, and the right-walkway cantilever arms on its front uprights |
 | Surface finish | Gray oxide primer + flat black powder coat (interior) |
-| Approx. weight | ~178kg (uprights + feet + front bars + hangers + exterior wall plates + panel mount) |
+| Approx. weight | ~90kg (4 uprights + rings + 4 feet + front bars + hangers + exterior wall plates + rear-panel brackets) |
 | Approx. cost | USD <!-- BEGIN costing:eq-ibc-frame-cost -->$980–$1,505<!-- END costing:eq-ibc-frame-cost --> (local mild steel fabrication) |
 
 **Why 1,000L caged composite (all four totes):**
